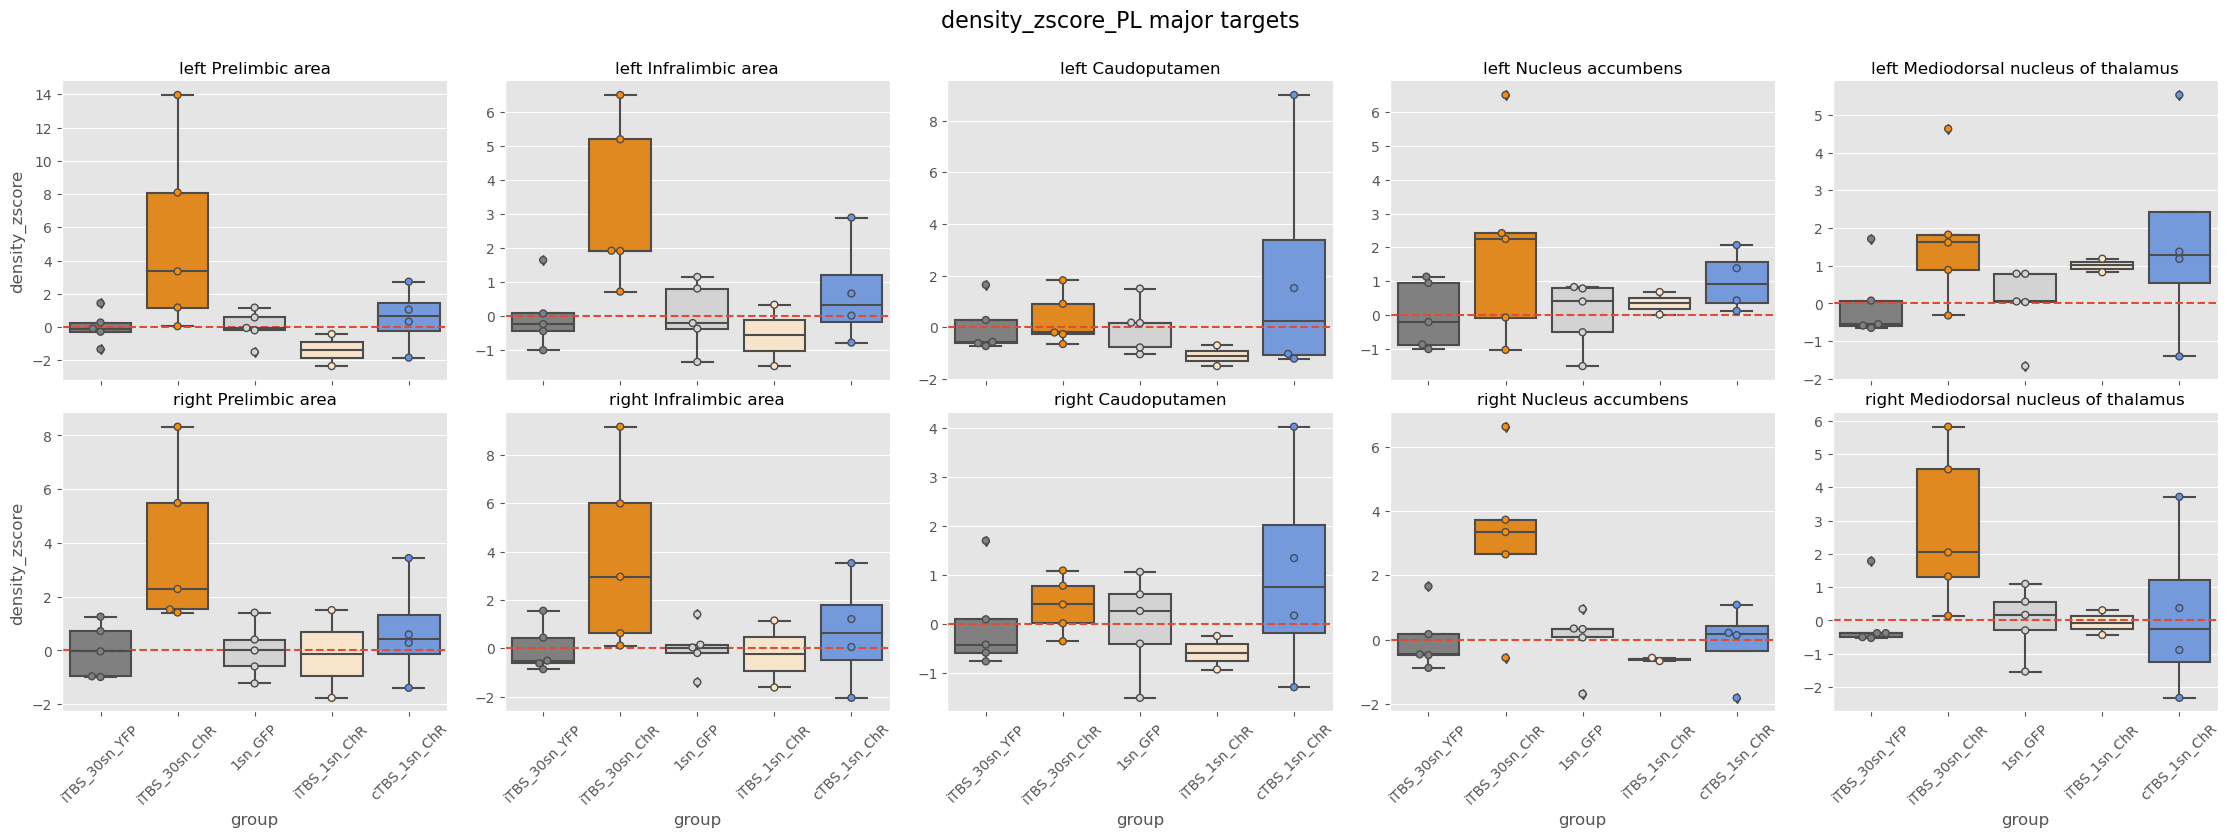
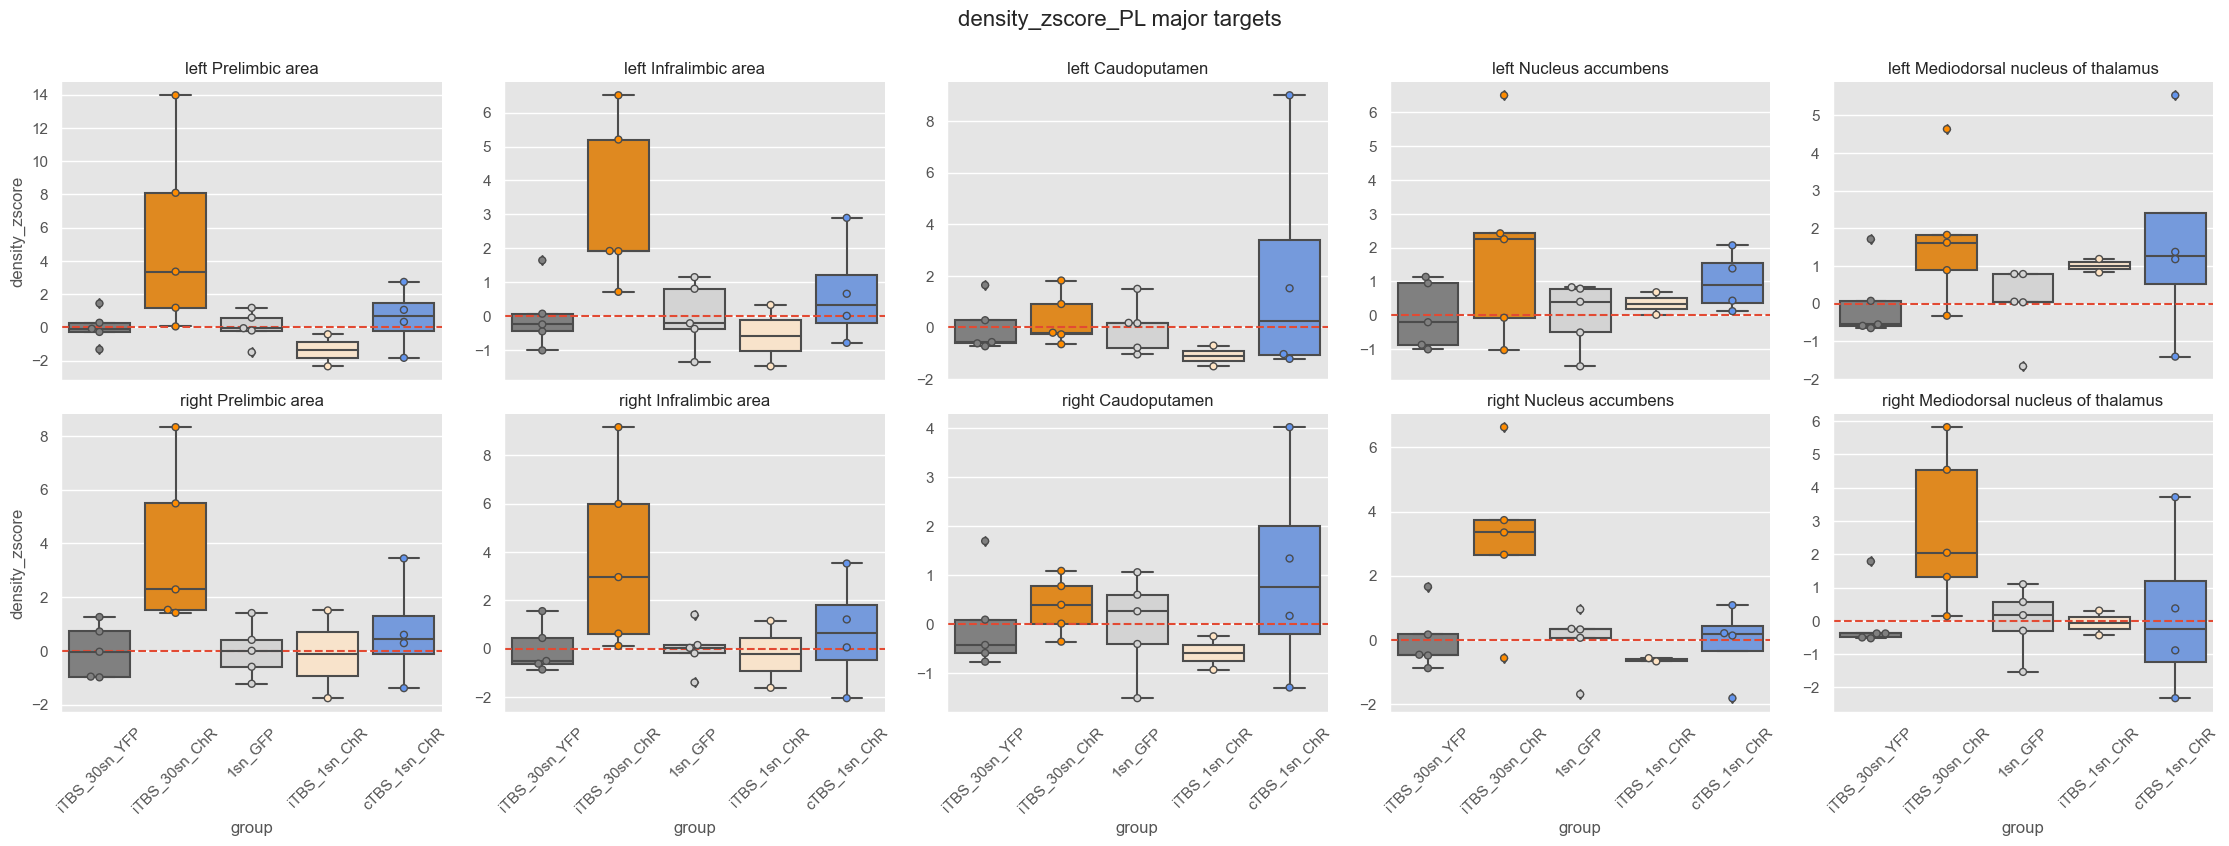
Fixed an issue with nan zscores caused by no variation in control group

diff --git a/scripts/gather_cfos_data.py b/scripts/gather_cfos_data.py
@@ -124,7 +124,14 @@ def zscore(cfos_vrt, control_dict):
     cfos_vrt.loc[:, "control_grp"] = cfos_vrt.group.map(control_dict)
     for row in cfos_vrt.iterrows():
         ctrl = cfos_vrt_control_mean.loc[row[1]["name"], row[1].control_grp]
-        row_z.append((row[1]["density (cells/mm^3)"] - ctrl.density_mean)/ctrl.density_std)
+        density_val = row[1]["density (cells/mm^3)"]
+        ctrl_mean = ctrl.density_mean
+        ctrl_std = ctrl.density_std
+        if ctrl_std == 0:
+            ctrl_std = 0.01
+        density_zscore = (density_val - ctrl_mean)/ctrl_std
+        # print(f"density = {density_val}, ctrl_mean = {ctrl_mean}, ctrl_std = {ctrl_std}")
+        row_z.append(density_zscore)
     return row_z
 
 
@@ -230,7 +237,7 @@ def generate_heatmap(cfos_vrt_collapse, sort_col, title, save_path=r"C:\Users\sh
     # cfos_vrt_collapse_pivot["pval"] = pval_df[cfos_vrt_collapse_pivot.index].values
     cfos_vrt_collapse_pivot = cfos_vrt_collapse_pivot.sort_values(by=sort_col)
     cfos_vrt_collapse_pivot = cfos_vrt_collapse_pivot.drop(columns=["1sn_GFP", "iTBS_30sn_YFP"]) # drop the control columns, which contain data centered on 0 and are thus not informative for a heatmap
-    fig, ax = plt.subplots(figsize=(10,6))
+    fig, ax = plt.subplots(figsize=(12,8))
     g = sns.heatmap(cfos_vrt_collapse_pivot, cmap="icefire", center=0, vmin=-5, vmax=5, ax=ax, cbar_kws={'label': 'density_z-score'})
     save_path_full = save_path + r"/" + title + "_sort_by_" + sort_col + ".png"
     plt.subplots_adjust(left=0.4, bottom=0.3)
